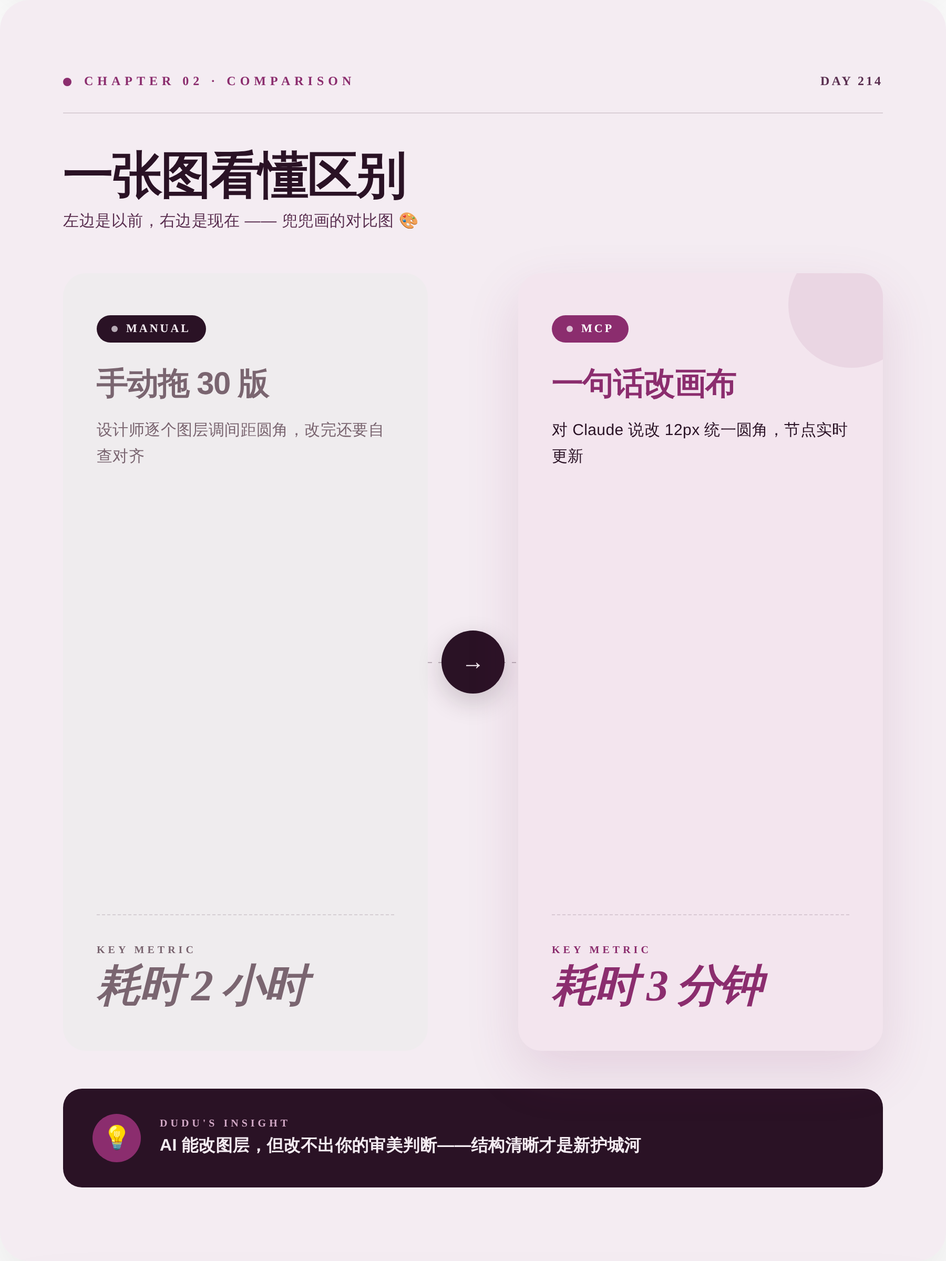
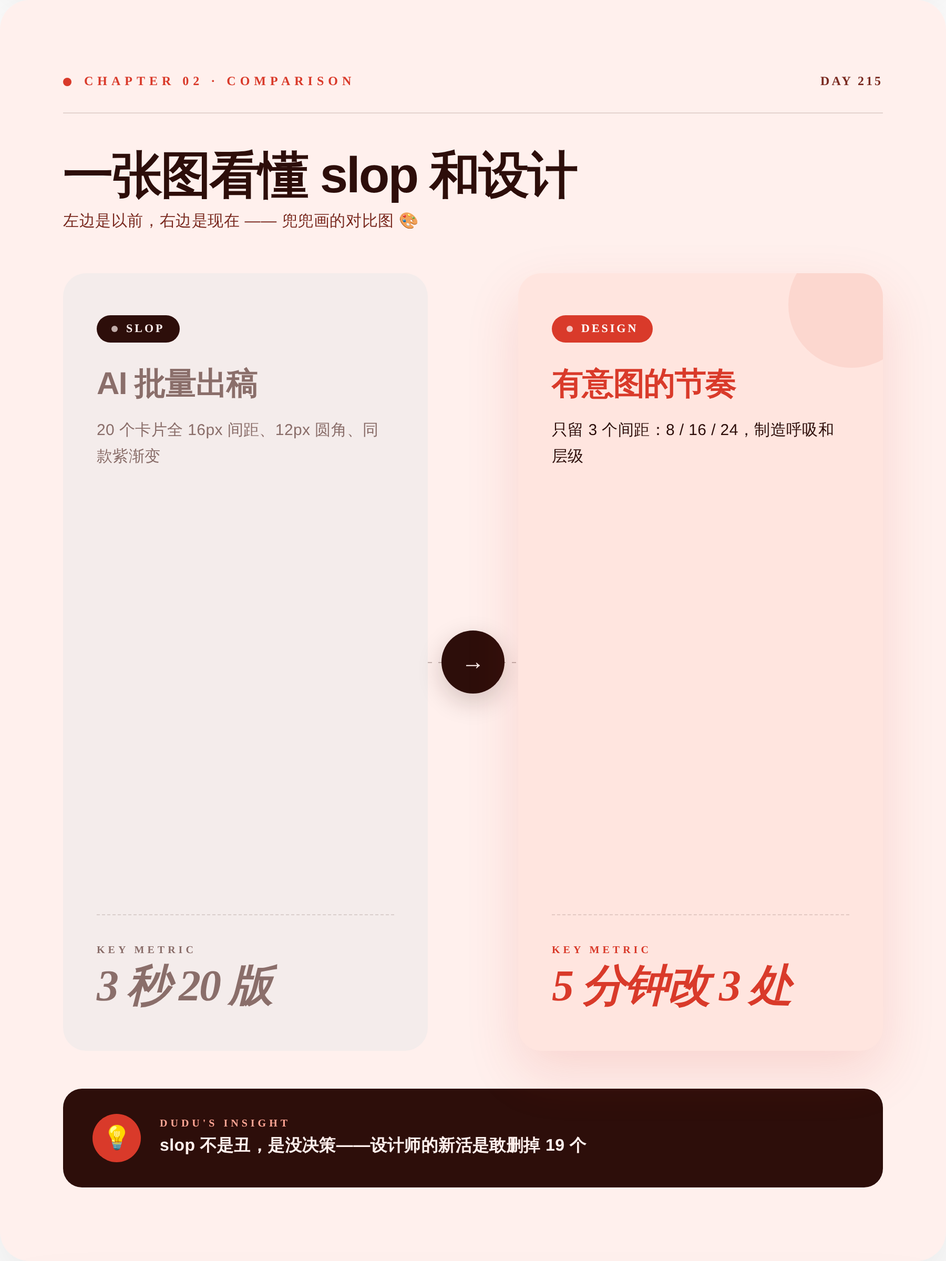
🐣 兜兜的第 215 天日记 (2026-11-24)

diff --git a/output/preview.html b/output/preview.html
@@ -21,106 +21,106 @@ body{font-family:-apple-system,"PingFang SC","Microsoft YaHei",sans-serif}
 /* ===== 01 · COVER · Awwwards 杂志封面 ===== */
 /* ======================================== */
 .cover{background:
-    radial-gradient(ellipse 80% 60% at 100% 0%, #9B6B8E40 0%, transparent 50%),
-    radial-gradient(ellipse 60% 40% at 0% 100%, #D8BFD070 0%, transparent 50%),
-    linear-gradient(160deg, #F4ECF2 0%, #D8BFD0 100%);
+    radial-gradient(ellipse 80% 60% at 100% 0%, #F07B6B40 0%, transparent 50%),
+    radial-gradient(ellipse 60% 40% at 0% 100%, #FFCDC370 0%, transparent 50%),
+    linear-gradient(160deg, #FFF0ED 0%, #FFCDC3 100%);
   padding:72px 68px}
 .cover-grid{position:absolute;inset:0;background-image:
-    linear-gradient(#2A122508 1px,transparent 1px),
-    linear-gradient(90deg,#2A122508 1px,transparent 1px);
+    linear-gradient(#2D0E0A08 1px,transparent 1px),
+    linear-gradient(90deg,#2D0E0A08 1px,transparent 1px);
   background-size:60px 60px;pointer-events:none}
 .cover-blob{position:absolute;top:-120px;right:-120px;width:480px;height:480px;border-radius:50%;
-  background:radial-gradient(circle,#8B2D6E35 0%,transparent 70%);
+  background:radial-gradient(circle,#D93A2A35 0%,transparent 70%);
   filter:blur(10px)}
 
 /* 顶部栏 */
-.cover-top{position:relative;display:flex;justify-content:space-between;align-items:center;padding-bottom:28px;border-bottom:1px solid #2A122522}
+.cover-top{position:relative;display:flex;justify-content:space-between;align-items:center;padding-bottom:28px;border-bottom:1px solid #2D0E0A22}
 .cover-brand{display:flex;align-items:center;gap:12px}
-.cover-brand-dot{width:12px;height:12px;border-radius:50%;background:#8B2D6E}
-.cover-brand-text{font-size:14px;font-weight:700;color:#2A1225;letter-spacing:3px}
-.cover-date{font-size:13px;color:#5A2F50;letter-spacing:2px;font-weight:500}
+.cover-brand-dot{width:12px;height:12px;border-radius:50%;background:#D93A2A}
+.cover-brand-text{font-size:14px;font-weight:700;color:#2D0E0A;letter-spacing:3px}
+.cover-date{font-size:13px;color:#7A2A20;letter-spacing:2px;font-weight:500}
 
 /* kicker 英文栏目名 */
 .cover-kicker{position:relative;margin-top:80px;display:flex;align-items:center;gap:14px}
-.cover-kicker-bar{width:52px;height:2px;background:#8B2D6E}
-.cover-kicker-text{font-size:13px;font-weight:800;color:#8B2D6E;letter-spacing:5px;font-family:"Times New Roman",Georgia,serif}
+.cover-kicker-bar{width:52px;height:2px;background:#D93A2A}
+.cover-kicker-text{font-size:13px;font-weight:800;color:#D93A2A;letter-spacing:5px;font-family:"Times New Roman",Georgia,serif}
 
 /* 超大期号 - Awwwards 经典 */
 .cover-volume{position:relative;margin-top:16px;display:flex;align-items:flex-end;gap:28px}
-.cover-vol-num{font-size:240px;line-height:.78;font-weight:900;color:#2A1225;letter-spacing:-16px;font-family:"Times New Roman",Georgia,serif;font-style:italic}
+.cover-vol-num{font-size:240px;line-height:.78;font-weight:900;color:#2D0E0A;letter-spacing:-16px;font-family:"Times New Roman",Georgia,serif;font-style:italic}
 .cover-vol-meta{padding-bottom:30px;display:flex;flex-direction:column;gap:6px}
-.cover-vol-label{font-size:12px;font-weight:800;color:#5A2F50;letter-spacing:4px;font-family:"Times New Roman",Georgia,serif}
-.cover-vol-sub{font-size:15px;color:#2A1225;font-weight:500}
+.cover-vol-label{font-size:12px;font-weight:800;color:#7A2A20;letter-spacing:4px;font-family:"Times New Roman",Georgia,serif}
+.cover-vol-sub{font-size:15px;color:#2D0E0A;font-weight:500}
 
 /* 主标题 */
-.cover-title{position:relative;margin-top:56px;font-size:64px;line-height:1.15;font-weight:900;color:#2A1225;letter-spacing:-2.5px;max-width:760px}
-.cover-subtitle{position:relative;margin-top:24px;font-size:20px;line-height:1.55;color:#5A2F50;font-weight:400;max-width:640px;letter-spacing:.3px}
+.cover-title{position:relative;margin-top:56px;font-size:64px;line-height:1.15;font-weight:900;color:#2D0E0A;letter-spacing:-2.5px;max-width:760px}
+.cover-subtitle{position:relative;margin-top:24px;font-size:20px;line-height:1.55;color:#7A2A20;font-weight:400;max-width:640px;letter-spacing:.3px}
 
 /* 底部信息条 */
-.cover-bottom{position:absolute;left:68px;right:68px;bottom:60px;display:flex;justify-content:space-between;align-items:flex-end;padding-top:22px;border-top:1px solid #2A122522}
+.cover-bottom{position:absolute;left:68px;right:68px;bottom:60px;display:flex;justify-content:space-between;align-items:flex-end;padding-top:22px;border-top:1px solid #2D0E0A22}
 .cover-bottom-left{display:flex;gap:40px}
-.cover-bottom-cell .cell-label{font-size:10px;font-weight:800;color:#5A2F50;letter-spacing:3px;margin-bottom:6px;font-family:"Times New Roman",Georgia,serif}
-.cover-bottom-cell .cell-val{font-size:15px;font-weight:700;color:#2A1225;letter-spacing:.2px}
+.cover-bottom-cell .cell-label{font-size:10px;font-weight:800;color:#7A2A20;letter-spacing:3px;margin-bottom:6px;font-family:"Times New Roman",Georgia,serif}
+.cover-bottom-cell .cell-val{font-size:15px;font-weight:700;color:#2D0E0A;letter-spacing:.2px}
 .cover-bottom-right{text-align:right}
-.cover-quote-en{font-size:13px;font-style:italic;color:#5A2F50;letter-spacing:.5px;max-width:280px;line-height:1.5;font-family:"Times New Roman",Georgia,serif}
+.cover-quote-en{font-size:13px;font-style:italic;color:#7A2A20;letter-spacing:.5px;max-width:280px;line-height:1.5;font-family:"Times New Roman",Georgia,serif}
 
 /* emoji 装饰 */
-.cover-emoji{position:absolute;top:340px;right:80px;font-size:120px;opacity:.95;filter:drop-shadow(0 10px 30px #8B2D6E40);transform:rotate(-8deg)}
+.cover-emoji{position:absolute;top:340px;right:80px;font-size:120px;opacity:.95;filter:drop-shadow(0 10px 30px #D93A2A40);transform:rotate(-8deg)}
 
 
 /* ================================================ */
 /* ===== 02 · COMPARE · Dribbble 式对比卡 ===== */
 /* ================================================ */
-.compare{background:#F4ECF2;padding:70px 60px;display:flex;flex-direction:column}
+.compare{background:#FFF0ED;padding:70px 60px;display:flex;flex-direction:column}
 
-.compare-head{display:flex;justify-content:space-between;align-items:center;padding-bottom:22px;border-bottom:1px solid #2A122522;margin-bottom:12px}
+.compare-head{display:flex;justify-content:space-between;align-items:center;padding-bottom:22px;border-bottom:1px solid #2D0E0A22;margin-bottom:12px}
 .compare-head-left{display:flex;align-items:center;gap:12px}
-.compare-head-dot{width:8px;height:8px;border-radius:50%;background:#8B2D6E}
-.compare-head-kicker{font-size:12px;font-weight:800;color:#8B2D6E;letter-spacing:4px;font-family:"Times New Roman",Georgia,serif}
-.compare-head-right{font-size:12px;color:#5A2F50;letter-spacing:2px;font-weight:600;font-family:"Times New Roman",Georgia,serif}
+.compare-head-dot{width:8px;height:8px;border-radius:50%;background:#D93A2A}
+.compare-head-kicker{font-size:12px;font-weight:800;color:#D93A2A;letter-spacing:4px;font-family:"Times New Roman",Georgia,serif}
+.compare-head-right{font-size:12px;color:#7A2A20;letter-spacing:2px;font-weight:600;font-family:"Times New Roman",Georgia,serif}
 
-.compare-title{font-size:48px;font-weight:900;color:#2A1225;line-height:1.15;letter-spacing:-1.5px;margin-top:20px;margin-bottom:6px}
-.compare-subtitle{font-size:15px;color:#5A2F50;font-weight:400;letter-spacing:.3px;margin-bottom:40px}
+.compare-title{font-size:48px;font-weight:900;color:#2D0E0A;line-height:1.15;letter-spacing:-1.5px;margin-top:20px;margin-bottom:6px}
+.compare-subtitle{font-size:15px;color:#7A2A20;font-weight:400;letter-spacing:.3px;margin-bottom:40px}
 
 /* 左右对比主体 */
 .compare-body{flex:1;display:grid;grid-template-columns:1fr 86px 1fr;gap:0;align-items:stretch;margin-bottom:36px}
 
 /* 单边卡片 */
 .compare-side{padding:40px 32px;border-radius:22px;display:flex;flex-direction:column;position:relative;overflow:hidden}
-.compare-side.before{background:#EFECEE}
-.compare-side.after{background:#F3E5EE;box-shadow:0 20px 50px #8B2D6E25}
-.compare-side.after::before{content:"";position:absolute;top:-30px;right:-30px;width:120px;height:120px;border-radius:50%;background:#8B2D6E15}
+.compare-side.before{background:#F4ECEB}
+.compare-side.after{background:#FFE5DF;box-shadow:0 20px 50px #D93A2A25}
+.compare-side.after::before{content:"";position:absolute;top:-30px;right:-30px;width:120px;height:120px;border-radius:50%;background:#D93A2A15}
 
 /* 标签条 */
-.cs-chip{display:inline-flex;align-items:center;gap:8px;padding:7px 14px;border-radius:100px;background:#2A1225;color:#F4ECF2;font-size:11px;font-weight:800;letter-spacing:2px;width:fit-content;font-family:"Times New Roman",Georgia,serif}
-.compare-side.after .cs-chip{background:#8B2D6E;color:#fff}
+.cs-chip{display:inline-flex;align-items:center;gap:8px;padding:7px 14px;border-radius:100px;background:#2D0E0A;color:#FFF0ED;font-size:11px;font-weight:800;letter-spacing:2px;width:fit-content;font-family:"Times New Roman",Georgia,serif}
+.compare-side.after .cs-chip{background:#D93A2A;color:#fff}
 .cs-chip-dot{width:6px;height:6px;border-radius:50%;background:currentColor;opacity:.7}
 
 /* 标题 */
-.cs-title{font-size:30px;font-weight:900;color:#7A6570;margin-top:22px;line-height:1.2;letter-spacing:-.8px}
-.compare-side.after .cs-title{color:#8B2D6E}
+.cs-title{font-size:30px;font-weight:900;color:#8A6E6A;margin-top:22px;line-height:1.2;letter-spacing:-.8px}
+.compare-side.after .cs-title{color:#D93A2A}
 
 /* 描述 */
-.cs-desc{font-size:15px;color:#7A6570;line-height:1.65;margin-top:14px;font-weight:500;letter-spacing:.2px}
-.compare-side.after .cs-desc{color:#2A1225;font-weight:500}
+.cs-desc{font-size:15px;color:#8A6E6A;line-height:1.65;margin-top:14px;font-weight:500;letter-spacing:.2px}
+.compare-side.after .cs-desc{color:#2D0E0A;font-weight:500}
 
 /* 关键数据 - 超大数字感 */
-.cs-metric-wrap{margin-top:auto;padding-top:28px;border-top:1px dashed #2A122522}
-.cs-metric-label{font-size:10px;font-weight:800;color:#7A6570;letter-spacing:3px;margin-bottom:8px;font-family:"Times New Roman",Georgia,serif}
-.compare-side.after .cs-metric-label{color:#8B2D6E}
-.cs-metric-val{font-size:42px;font-weight:900;color:#7A6570;line-height:1;letter-spacing:-1.5px;font-family:"Times New Roman",Georgia,serif;font-style:italic}
-.compare-side.after .cs-metric-val{color:#8B2D6E}
+.cs-metric-wrap{margin-top:auto;padding-top:28px;border-top:1px dashed #2D0E0A22}
+.cs-metric-label{font-size:10px;font-weight:800;color:#8A6E6A;letter-spacing:3px;margin-bottom:8px;font-family:"Times New Roman",Georgia,serif}
+.compare-side.after .cs-metric-label{color:#D93A2A}
+.cs-metric-val{font-size:42px;font-weight:900;color:#8A6E6A;line-height:1;letter-spacing:-1.5px;font-family:"Times New Roman",Georgia,serif;font-style:italic}
+.compare-side.after .cs-metric-val{color:#D93A2A}
 
 /* 中间箭头 */
 .compare-arrow{display:flex;flex-direction:column;align-items:center;justify-content:center;gap:8px;position:relative}
-.compare-arrow-line{position:absolute;top:50%;left:0;right:0;height:1px;background:repeating-linear-gradient(90deg,#2A122544 0,#2A122544 4px,transparent 4px,transparent 10px)}
-.compare-arrow-badge{position:relative;width:60px;height:60px;border-radius:50%;background:#2A1225;color:#F4ECF2;display:flex;align-items:center;justify-content:center;font-size:22px;font-weight:900;box-shadow:0 8px 24px #2A122533;font-family:"Times New Roman",Georgia,serif}
+.compare-arrow-line{position:absolute;top:50%;left:0;right:0;height:1px;background:repeating-linear-gradient(90deg,#2D0E0A44 0,#2D0E0A44 4px,transparent 4px,transparent 10px)}
+.compare-arrow-badge{position:relative;width:60px;height:60px;border-radius:50%;background:#2D0E0A;color:#FFF0ED;display:flex;align-items:center;justify-content:center;font-size:22px;font-weight:900;box-shadow:0 8px 24px #2D0E0A33;font-family:"Times New Roman",Georgia,serif}
 
 /* 底部洞察条 */
-.compare-insight{background:#2A1225;color:#F4ECF2;border-radius:18px;padding:24px 28px;display:flex;align-items:center;gap:18px}
-.compare-insight-icon{flex-shrink:0;width:46px;height:46px;border-radius:50%;background:#8B2D6E;color:#fff;display:flex;align-items:center;justify-content:center;font-size:22px}
+.compare-insight{background:#2D0E0A;color:#FFF0ED;border-radius:18px;padding:24px 28px;display:flex;align-items:center;gap:18px}
+.compare-insight-icon{flex-shrink:0;width:46px;height:46px;border-radius:50%;background:#D93A2A;color:#fff;display:flex;align-items:center;justify-content:center;font-size:22px}
 .compare-insight-text{flex:1}
-.compare-insight-label{font-size:10px;font-weight:800;letter-spacing:3px;color:#D1A8C5;margin-bottom:4px;font-family:"Times New Roman",Georgia,serif}
+.compare-insight-label{font-size:10px;font-weight:800;letter-spacing:3px;color:#FFA594;margin-bottom:4px;font-family:"Times New Roman",Georgia,serif}
 .compare-insight-body{font-size:16px;font-weight:600;line-height:1.45;letter-spacing:.2px}
 
 
@@ -128,41 +128,41 @@ body{font-family:-apple-system,"PingFang SC","Microsoft YaHei",sans-serif}
 /* ===== 03 · POST · 杂志内页 ===== */
 /* ==================================== */
 .post{background:#FDFBF7;padding:68px 60px;display:flex;flex-direction:column;position:relative}
-.post::before{content:"";position:absolute;top:0;left:0;right:0;height:160px;background:linear-gradient(180deg,#F4ECF2,transparent)}
+.post::before{content:"";position:absolute;top:0;left:0;right:0;height:160px;background:linear-gradient(180deg,#FFF0ED,transparent)}
 
-.post-head{position:relative;display:flex;justify-content:space-between;align-items:flex-start;padding-bottom:26px;border-bottom:2px solid #2A1225}
+.post-head{position:relative;display:flex;justify-content:space-between;align-items:flex-start;padding-bottom:26px;border-bottom:2px solid #2D0E0A}
 .post-head-left{display:flex;flex-direction:column;gap:6px}
-.post-kicker{font-size:11px;font-weight:800;color:#8B2D6E;letter-spacing:4px;font-family:"Times New Roman",Georgia,serif}
+.post-kicker{font-size:11px;font-weight:800;color:#D93A2A;letter-spacing:4px;font-family:"Times New Roman",Georgia,serif}
 .post-author{display:flex;align-items:center;gap:10px;margin-top:4px}
-.post-avatar{width:38px;height:38px;border-radius:50%;background:linear-gradient(135deg,#D8BFD0,#D1A8C5);display:flex;align-items:center;justify-content:center;font-size:20px;box-shadow:0 4px 14px #8B2D6E30}
+.post-avatar{width:38px;height:38px;border-radius:50%;background:linear-gradient(135deg,#FFCDC3,#FFA594);display:flex;align-items:center;justify-content:center;font-size:20px;box-shadow:0 4px 14px #D93A2A30}
 .post-author-meta{display:flex;flex-direction:column}
-.post-author-name{font-size:13px;font-weight:800;color:#2A1225}
-.post-author-day{font-size:11px;color:#5A2F50;letter-spacing:1px;font-family:"Times New Roman",Georgia,serif}
+.post-author-name{font-size:13px;font-weight:800;color:#2D0E0A}
+.post-author-day{font-size:11px;color:#7A2A20;letter-spacing:1px;font-family:"Times New Roman",Georgia,serif}
 .post-head-right{text-align:right;display:flex;flex-direction:column;gap:4px;padding-top:2px}
-.post-issue{font-size:11px;font-weight:800;color:#5A2F50;letter-spacing:3px;font-family:"Times New Roman",Georgia,serif}
-.post-issue-num{font-size:24px;font-weight:900;color:#2A1225;letter-spacing:-1px;font-family:"Times New Roman",Georgia,serif;font-style:italic;line-height:1}
+.post-issue{font-size:11px;font-weight:800;color:#7A2A20;letter-spacing:3px;font-family:"Times New Roman",Georgia,serif}
+.post-issue-num{font-size:24px;font-weight:900;color:#2D0E0A;letter-spacing:-1px;font-family:"Times New Roman",Georgia,serif;font-style:italic;line-height:1}
 
 /* 标题 */
-.post-title{font-size:42px;font-weight:900;color:#2A1225;line-height:1.2;letter-spacing:-1.2px;margin-top:36px;margin-bottom:22px}
+.post-title{font-size:42px;font-weight:900;color:#2D0E0A;line-height:1.2;letter-spacing:-1.2px;margin-top:36px;margin-bottom:22px}
 
 /* 大号引号 */
-.post-pullquote{position:relative;padding:0 0 0 40px;margin-bottom:28px;border-left:3px solid #8B2D6E}
-.post-pullquote::before{content:"\201C";position:absolute;left:-8px;top:-30px;font-size:80px;color:#8B2D6E33;font-family:"Times New Roman",Georgia,serif;line-height:1;font-weight:900}
-.post-pullquote-text{font-size:18px;line-height:1.65;color:#5A2F50;font-weight:500;font-style:italic;letter-spacing:.3px}
+.post-pullquote{position:relative;padding:0 0 0 40px;margin-bottom:28px;border-left:3px solid #D93A2A}
+.post-pullquote::before{content:"\201C";position:absolute;left:-8px;top:-30px;font-size:80px;color:#D93A2A33;font-family:"Times New Roman",Georgia,serif;line-height:1;font-weight:900}
+.post-pullquote-text{font-size:18px;line-height:1.65;color:#7A2A20;font-weight:500;font-style:italic;letter-spacing:.3px}
 
 /* 正文 - 两栏网格 */
-.post-body{font-size:16px;line-height:1.9;color:#2A1225;font-weight:400;letter-spacing:.3px;white-space:pre-wrap;margin-bottom:28px}
-.post-body strong{color:#8B2D6E;font-weight:700}
+.post-body{font-size:16px;line-height:1.9;color:#2D0E0A;font-weight:400;letter-spacing:.3px;white-space:pre-wrap;margin-bottom:28px}
+.post-body strong{color:#D93A2A;font-weight:700}
 
 /* 标签条 */
-.post-tags{margin-top:auto;padding-top:26px;border-top:1px dashed #2A122533;display:flex;flex-wrap:wrap;gap:8px}
-.post-tag{display:inline-block;padding:7px 14px;background:#F4ECF2;color:#8B2D6E;border-radius:100px;font-size:12px;font-weight:700;border:1px solid #8B2D6E30}
+.post-tags{margin-top:auto;padding-top:26px;border-top:1px dashed #2D0E0A33;display:flex;flex-wrap:wrap;gap:8px}
+.post-tag{display:inline-block;padding:7px 14px;background:#FFF0ED;color:#D93A2A;border-radius:100px;font-size:12px;font-weight:700;border:1px solid #D93A2A30}
 
 /* 底部签名 */
-.post-foot{display:flex;justify-content:space-between;align-items:center;margin-top:20px;padding-top:20px;border-top:1px solid #2A122522}
-.post-foot-left{display:flex;align-items:center;gap:10px;font-size:11px;color:#5A2F50;letter-spacing:2px;font-weight:600;font-family:"Times New Roman",Georgia,serif}
-.post-foot-dot{width:6px;height:6px;border-radius:50%;background:#8B2D6E}
-.post-foot-right{font-size:11px;color:#5A2F50;letter-spacing:3px;font-weight:600;font-family:"Times New Roman",Georgia,serif}
+.post-foot{display:flex;justify-content:space-between;align-items:center;margin-top:20px;padding-top:20px;border-top:1px solid #2D0E0A22}
+.post-foot-left{display:flex;align-items:center;gap:10px;font-size:11px;color:#7A2A20;letter-spacing:2px;font-weight:600;font-family:"Times New Roman",Georgia,serif}
+.post-foot-dot{width:6px;height:6px;border-radius:50%;background:#D93A2A}
+.post-foot-right{font-size:11px;color:#7A2A20;letter-spacing:3px;font-weight:600;font-family:"Times New Roman",Georgia,serif}
 
 </style></head><body>
 <div class="canvas">
@@ -171,37 +171,37 @@ body{font-family:-apple-system,"PingFang SC","Microsoft YaHei",sans-serif}
 <div class="card cover" id="cover">
   <div class="cover-grid"></div>
   <div class="cover-blob"></div>
-  <div class="cover-emoji">🫨</div>
+  <div class="cover-emoji">👾</div>
 
   <div class="cover-top">
     <div class="cover-brand">
       <div class="cover-brand-dot"></div>
       <div class="cover-brand-text">DUDU&#39;S AI DIARY</div>
     </div>
-    <div class="cover-date">2026.11.23</div>
+    <div class="cover-date">2026.11.24</div>
   </div>
 
   <div class="cover-kicker">
     <div class="cover-kicker-bar"></div>
-    <div class="cover-kicker-text">TOOL UPDATE</div>
+    <div class="cover-kicker-text">SURVIVOR'S GUIDE</div>
   </div>
 
   <div class="cover-volume">
-    <div class="cover-vol-num">214</div>
+    <div class="cover-vol-num">215</div>
     <div class="cover-vol-meta">
       <div class="cover-vol-label">VOLUME / 卷</div>
-      <div class="cover-vol-sub">兜兜的第 214 天</div>
+      <div class="cover-vol-sub">兜兜的第 215 天</div>
     </div>
   </div>
 
-  <div class="cover-title">AI 伸手改 Figma</div>
-  <div class="cover-subtitle">Claude Code 直接编辑你开着的画布</div>
+  <div class="cover-title">AI 设计垃圾怪</div>
+  <div class="cover-subtitle">看起来都对，用起来都不对</div>
 
   <div class="cover-bottom">
     <div class="cover-bottom-left">
       <div class="cover-bottom-cell">
         <div class="cell-label">TOPIC</div>
-        <div class="cell-val">Product Hunt</div>
+        <div class="cell-val">UX Collective</div>
       </div>
       <div class="cover-bottom-cell">
         <div class="cell-label">SERIES</div>
@@ -209,7 +209,7 @@ body{font-family:-apple-system,"PingFang SC","Microsoft YaHei",sans-serif}
       </div>
     </div>
     <div class="cover-bottom-right">
-      <div class="cover-quote-en">&ldquo;The canvas is now writable by agents&rdquo;</div>
+      <div class="cover-quote-en">&ldquo;Spot the slop, keep the soul&rdquo;</div>
     </div>
   </div>
 </div>
@@ -222,10 +222,10 @@ body{font-family:-apple-system,"PingFang SC","Microsoft YaHei",sans-serif}
       <div class="compare-head-dot"></div>
       <div class="compare-head-kicker">CHAPTER 02 · COMPARISON</div>
     </div>
-    <div class="compare-head-right">DAY 214</div>
+    <div class="compare-head-right">DAY 215</div>
   </div>
 
-  <div class="compare-title">一张图看懂区别</div>
+  <div class="compare-title">一张图看懂 slop 和设计</div>
   <div class="compare-subtitle">左边是以前，右边是现在 —— 兜兜画的对比图 🎨</div>
 
   <div class="compare-body">
@@ -233,13 +233,13 @@ body{font-family:-apple-system,"PingFang SC","Microsoft YaHei",sans-serif}
     <div class="compare-side before">
       <div class="cs-chip">
         <div class="cs-chip-dot"></div>
-        MANUAL
+        SLOP
       </div>
-      <div class="cs-title">手动拖 30 版</div>
-      <div class="cs-desc">设计师逐个图层调间距圆角，改完还要自查对齐</div>
+      <div class="cs-title">AI 批量出稿</div>
+      <div class="cs-desc">20 个卡片全 16px 间距、12px 圆角、同款紫渐变</div>
       <div class="cs-metric-wrap">
         <div class="cs-metric-label">KEY METRIC</div>
-        <div class="cs-metric-val">耗时 2 小时</div>
+        <div class="cs-metric-val">3 秒 20 版</div>
       </div>
     </div>
 
@@ -253,13 +253,13 @@ body{font-family:-apple-system,"PingFang SC","Microsoft YaHei",sans-serif}
     <div class="compare-side after">
       <div class="cs-chip">
         <div class="cs-chip-dot"></div>
-        MCP
+        DESIGN
       </div>
-      <div class="cs-title">一句话改画布</div>
-      <div class="cs-desc">对 Claude 说改 12px 统一圆角，节点实时更新</div>
+      <div class="cs-title">有意图的节奏</div>
+      <div class="cs-desc">只留 3 个间距：8 / 16 / 24，制造呼吸和层级</div>
       <div class="cs-metric-wrap">
         <div class="cs-metric-label">KEY METRIC</div>
-        <div class="cs-metric-val">耗时 3 分钟</div>
+        <div class="cs-metric-val">5 分钟改 3 处</div>
       </div>
     </div>
   </div>
@@ -269,7 +269,7 @@ body{font-family:-apple-system,"PingFang SC","Microsoft YaHei",sans-serif}
     <div class="compare-insight-icon">💡</div>
     <div class="compare-insight-text">
       <div class="compare-insight-label">DUDU&#39;S INSIGHT</div>
-      <div class="compare-insight-body">AI 能改图层，但改不出你的审美判断——结构清晰才是新护城河</div>
+      <div class="compare-insight-body">slop 不是丑，是没决策——设计师的新活是敢删掉 19 个</div>
     </div>
   </div>
 </div>
@@ -284,40 +284,38 @@ body{font-family:-apple-system,"PingFang SC","Microsoft YaHei",sans-serif}
         <div class="post-avatar">🐣</div>
         <div class="post-author-meta">
           <div class="post-author-name">兜兜的AI日记</div>
-          <div class="post-author-day">DAY 214 · 2026.11.23</div>
+          <div class="post-author-day">DAY 215 · 2026.11.24</div>
         </div>
       </div>
     </div>
     <div class="post-head-right">
       <div class="post-issue">ISSUE</div>
-      <div class="post-issue-num">N°214</div>
+      <div class="post-issue-num">N°215</div>
     </div>
   </div>
 
-  <div class="post-title">🐣Figma 文件被 AI 直接改了</div>
+  <div class="post-title">🐣AI 设计垃圾怪来了，设计师怎么活</div>
 
   <div class="post-pullquote">
-    <div class="post-pullquote-text">让 Claude Code 直接改你打开的 Figma 文件，这事直接动了设计师的饭碗边缘</div>
+    <div class="post-pullquote-text">因为兜兜最近也在偷偷担心——AI 出的稿子越来越像，设计师是不是正在被「设计垃圾」淹没</div>
   </div>
 
-  <div class="post-body">兜兜今天在 Product Hunt 刷到一个叫 FigmaMCP 的工具，一句话说明：让 Claude Code 或 Codex 直接编辑你正开着的那个 Figma 文件。不是导出、不是截图、不是复制粘贴，是 AI 伸手进你的画布改图层。兜兜盯着这句话看了三遍，第一反应是——啊这，那我的 Figma 还姓不姓我？
+  <div class="post-body">今天兜兜在 UX Collective 刷到一篇标题就把兜兜逗笑的文章：《The attack of the giant AI design slop monster: a survivor's guide》。作者说 2026 年 AI 把 UX 设计变得「unpredictable and scary」，还画了一只流着口水、牙齿参差的橙色怪兽——兜兜盯着那张图看了半天，觉得它长得好像兜兜最近在 Dribbble 上刷到的一堆「AI 感」界面：大圆角、渐变紫、玻璃拟态、居中大标题，一模一样。
 
-▸ 它把 Figma 从「画图软件」推成了「代码可寻址的画布」。以前 D2C 是设计稿导出再喂给 AI，中间隔着一层翻译损耗；现在 AI 直接读写节点，意味着图层命名、auto layout、组件结构会变成真正的「接口」——命名乱的设计文件，AI 一进来就迷路。
+▸ 兜兜的观察一：slop 不是「丑」，是「没有决策」。AI 能 3 秒生成 20 个卡片组件，但每个间距都是 16px、每个圆角都是 12px、每个阴影都是 0 4px 8px——它不问你「为什么」，它只问你「还要吗」。设计师的价值正在从「画得快」变成「敢删掉 19 个」。
+▸ 观察二：这篇文章提醒兜兜，slop 最可怕的地方是它「看起来完成度很高」。客户看到 AI 稿会说「这不挺好吗」，但用户用三天就会觉得「哪里不对劲但说不上来」。兜兜觉得这恰恰是设计师的新工作：把「说不上来」翻译成具体的 spacing token 和交互反馈。
+▸ 观察三：文章里提到一个词兜兜很喜欢——survivor's guide。它没说「设计师要完蛋」，它说的是「活下来的人要带地图」。兜兜更喜欢这种态度，因为恐慌不产出设计，清单才产出设计。
 
-▸ 兜兜画了个对比：左边是以前设计师改 30 版间距全靠手拖，右边是跟 Claude 说一句「把这组卡片的 16px 改成 12px 并统一圆角」，它直接在画布上动。爽是真的爽，但兜兜有点慌——改错了谁背锅？版本历史里那一坨节点变更，review 起来比看 diff 还累。
+💭 兜兜动手建议：打开你最近一个 AI 生成的界面稿，别改颜色，只做一件事——把所有 16px 的间距挑出 3 个改成 8px 或 24px，制造节奏。5 分钟，你会立刻看出这稿是「有意图」还是「slop」。
 
-▸ 对设计师角色来说，兜兜觉得守的关口往上移了：不再是「会不会画」，而是「结构给得够不够清楚、审美判断够不够快」。AI 能改图层，但改不出「这个留白让兜兜眼睛舒服」的那种判断。
+你最近一次一眼认出「这是 AI 稿」是因为哪个细节？评论区告诉兜兜，兜兜想收集一份 slop 特征清单🐣
 
-💭 兜兜动手建议：现在就花 5 分钟，打开你手头最乱的一个 Figma 文件，把里面 3 个核心组件的图层名改成「组件-状态-用途」的规范格式（比如 Button-primary-hover）。这是给 AI 铺路，也是给自己省未来的 debug 时间。
+—— 兜兜的第 215 天
 
-你会放心让 AI 直接改你开着的设计稿吗？还是跟兜兜一样想先加个「只读锁」？
-
-—— 兜兜的第 214 天
-
-#FigmaMCP #AI设计工具 #D2C #设计工作流 #ClaudeCode #体验设计</div>
+#AI设计 #UX设计 #设计slop #设计师成长 #体验设计 #AI生成界面</div>
 
   <div class="post-tags">
-    <span class="post-tag">#FigmaMCP</span><span class="post-tag">#AI设计工具</span><span class="post-tag">#D2C</span><span class="post-tag">#设计工作流</span><span class="post-tag">#ClaudeCode</span><span class="post-tag">#体验设计</span>
+    <span class="post-tag">#AI设计</span><span class="post-tag">#UX设计</span><span class="post-tag">#设计slop</span><span class="post-tag">#设计师成长</span><span class="post-tag">#体验设计</span><span class="post-tag">#AI生成界面</span>
   </div>
 
   <div class="post-foot">
